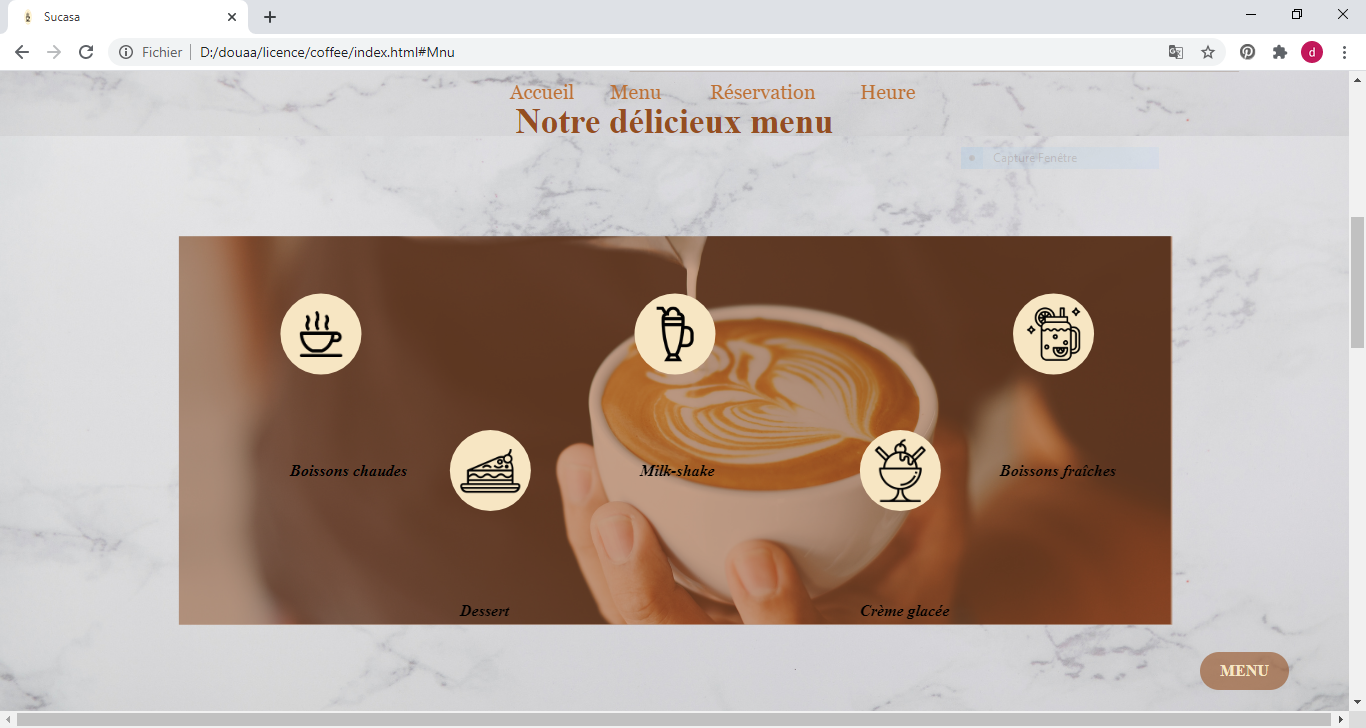
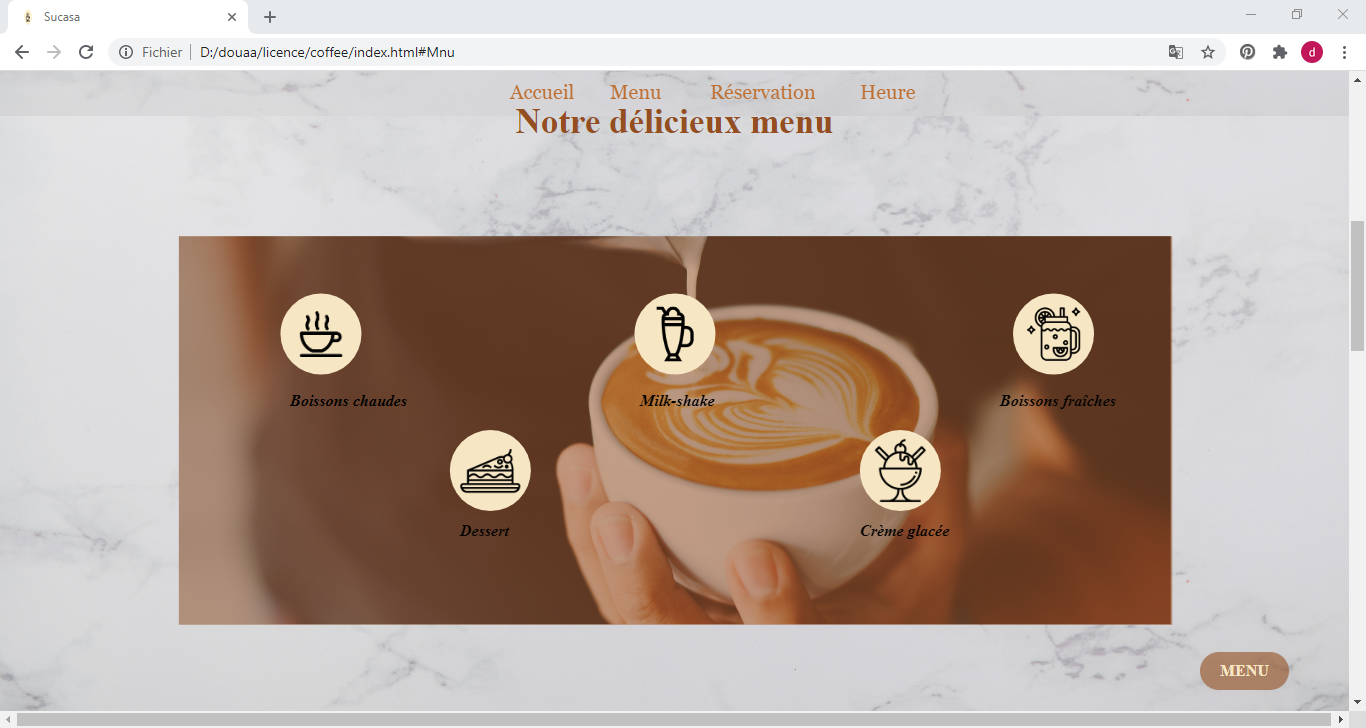
coffee

diff --git a/style.css b/style.css
@@ -60,38 +60,38 @@ body{
 .menu h1{
     text-align: center;
     padding-top: 30px;
-    margin-top: 60px;
+    margin-top: 80px;
     text-align: center;
     color: #954E20;
     font-size: 35px;
 }
 .menus1{
     position: absolute;
-    margin-top: 320px;
+    margin-top: 250px;
     font-weight: bold;
     margin-left: 290px;
 }
 .menus2{
     position: absolute;
-    margin-top: 320px;
+    margin-top: 250px;
     font-weight: bold;
     margin-left: 640px;
 }
 .menus3{
     position: absolute;
-    margin-top: 320px;
+    margin-top: 250px;
     font-weight: bold;
     margin-left: 1000px;
 }
 .menus4{
     position: absolute;
-    margin-top: 460px;
+    margin-top: 380px;
     font-weight: bold;
     margin-left: 460px;
 }
 .menus5{
     position: absolute;
-    margin-top: 460px;
+    margin-top: 380px;
     font-weight: bold;
     margin-left: 860px;
 }
